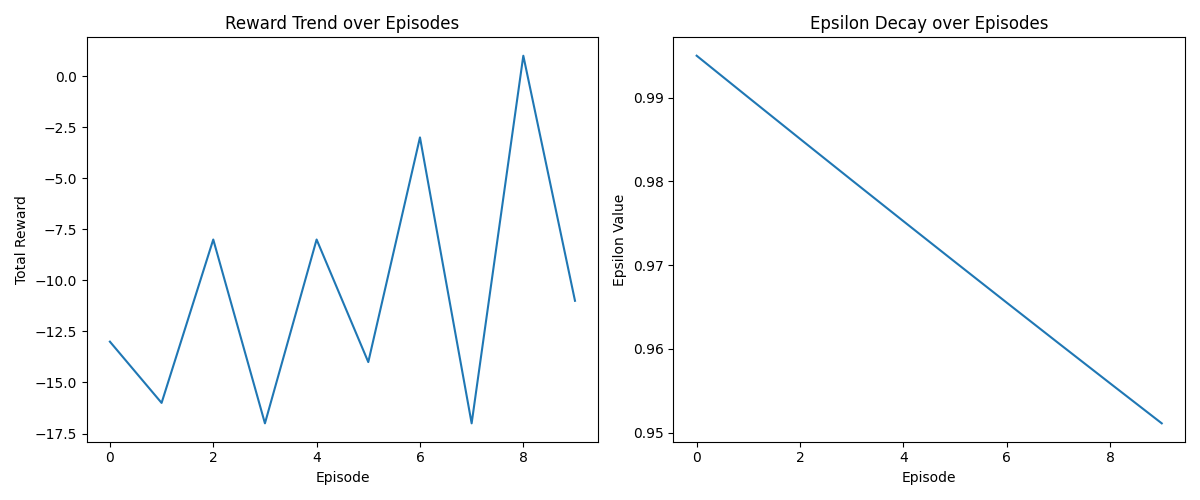
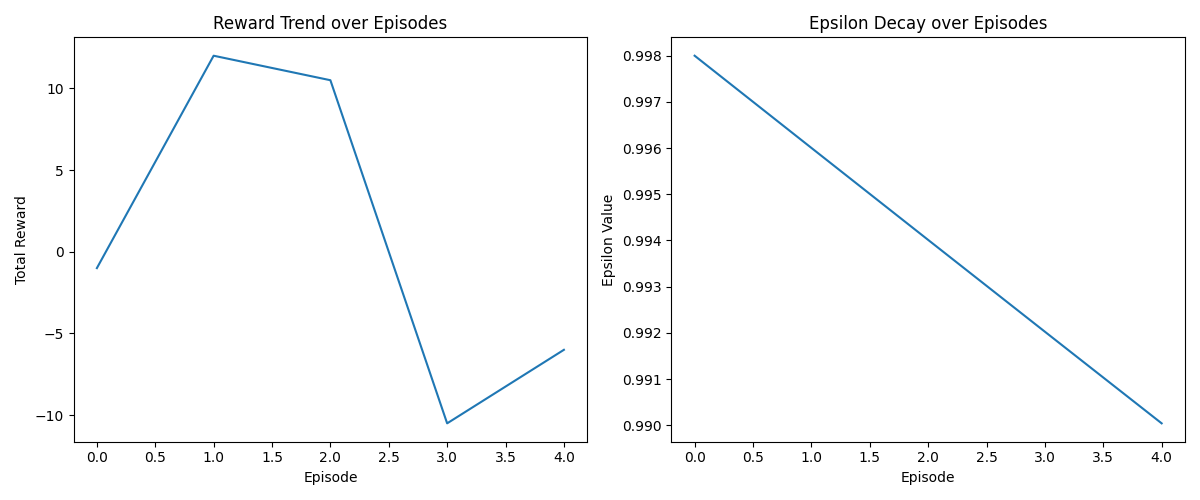
Changed the batchnorm1d to layernorm to handle batch size of 1

diff --git a/Agents.py b/Agents.py
@@ -13,12 +13,12 @@ class QNetwork(nn.Module):
         super(QNetwork, self).__init__()
         self.fc1 = nn.Linear(in_features = state_size,
                              out_features = hidden_size)
-        self.bn1 = nn.BatchNorm1d(hidden_size)
+        self.bn1 = nn.LayerNorm(hidden_size)
         self.fc2 = nn.Linear(in_features = hidden_size,
                              out_features = 128)
         self.fc3 = nn.Linear(in_features = 128,
                              out_features = 256)
-        self.bn2 = nn.BatchNorm1d(num_features = 256)
+        self.bn2 = nn.LayerNorm(256)
         self.fc4 = nn.Linear(in_features = 256,
                              out_features = hidden_size)
         self.fc5 = nn.Linear(in_features = hidden_size,
